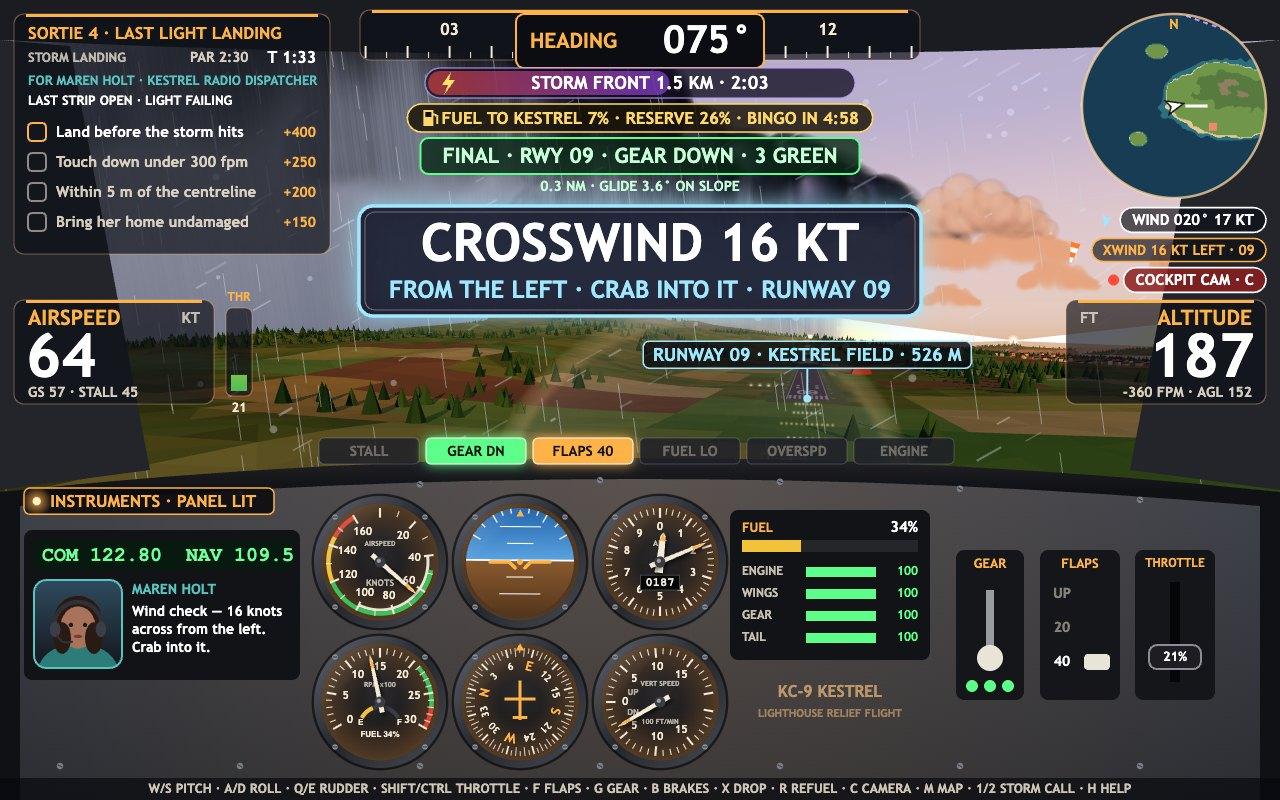
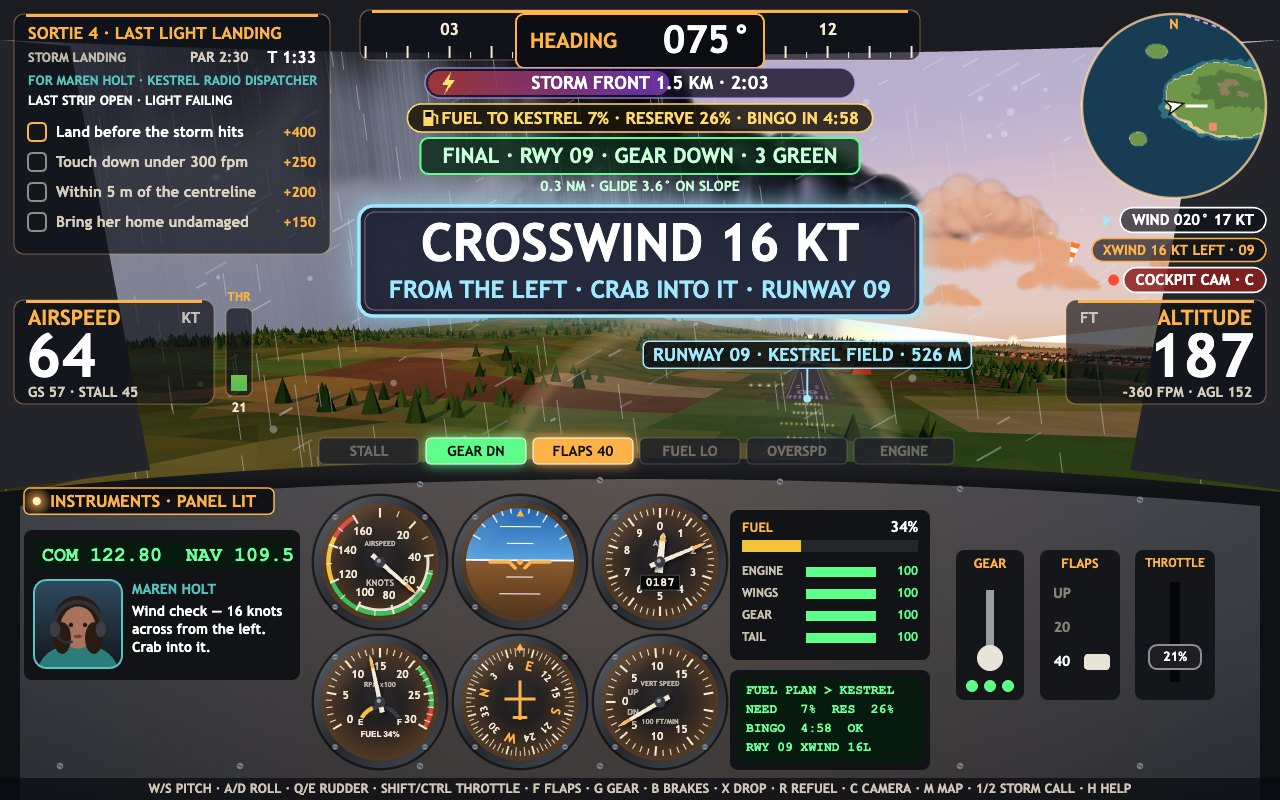
Cockpit flight computer shows the fuel plan and runway crosswind; beacon worry waits for the storm

Changed region(s): [[0.5625, 0.8125, 0.75, 0.9688]]

diff --git a/game/src/cockpit-panel.js b/game/src/cockpit-panel.js
@@ -6,6 +6,8 @@ import { drawSixPack } from './gauges.js';
 import { FONT, text, titleTab } from './hud-paint.js';
 import { SPEAKERS, drawPortrait } from './radio-portraits.js';
 import { createRandom } from './random.js';
+import { AIRSTRIPS, landingEnd, runwayThreshold } from './places.js';
+import { runwayWind } from './wind-and-gusts.js';
 
 function screw(g, x, y) {
   g.fillStyle = '#7d8089';
@@ -220,6 +222,35 @@ function rainOnGlass(g, W, top, amount, time, windSide) {
   }
 }
 
+/**
+ * The flight computer: a green LCD with the fuel planner's figures for the strip being flown
+ * to and the crosswind on its runway, as the pilot reads them from the panel.
+ */
+function flightComputer(g, x, y, w, session) {
+  const plan = session.fuelPlan;
+  g.fillStyle = '#121317';
+  g.beginPath();
+  g.roundRect(x, y, w, 100, 8);
+  g.fill();
+  g.fillStyle = '#071a0e';
+  g.fillRect(x + 8, y + 8, w - 16, 84);
+  g.font = `700 13px "Courier New", monospace`;
+  g.fillStyle = '#6dff9a';
+  g.textAlign = 'left';
+  g.textBaseline = 'middle';
+  const strip = AIRSTRIPS.find((s) => s.id === session.destination) ?? AIRSTRIPS[0];
+  const t = runwayThreshold(strip, landingEnd(strip, (session.aircraft.heading * 180) / Math.PI));
+  const wind = runwayWind(session.lastWind, t.heading);
+  const bingo = plan && plan.bingoSeconds >= 1 ? `${Math.floor(plan.bingoSeconds / 60)}:${String(Math.floor(plan.bingoSeconds % 60)).padStart(2, '0')}` : 'NOW';
+  const lines = plan ? [
+    `FUEL PLAN > ${plan.name}`,
+    `NEED ${String(Math.max(1, Math.round(plan.fuel))).padStart(3)}%  RES ${String(Math.max(0, Math.round(plan.reserve))).padStart(3)}%`,
+    `BINGO ${bingo.padStart(5)}  ${plan.status.toUpperCase()}`,
+    `RWY ${t.name} XWIND ${String(Math.round(wind.crossKt)).padStart(2)}${wind.side[0]}`,
+  ] : ['FUEL PLAN', '---'];
+  lines.forEach((line, i) => g.fillText(line, x + 16, y + 21 + i * 19));
+}
+
 /** Draw the cockpit interior and its live instruments. */
 export function drawCockpitPanel(g, W, H, session, read, rain = 0) {
   const top = H - 330;
@@ -239,6 +270,5 @@ export function drawCockpitPanel(g, W, H, session, read, rain = 0) {
   gearLever(g, W / 2 + 350, top + 150, session.aircraft);
   flapIndicator(g, W / 2 + 440, top + 150, session.aircraft);
   throttleQuadrant(g, W / 2 + 535, top + 150, session.aircraft);
-  text(g, 'KC-9 KESTREL', W / 2 + 190, top + 222, 16, 'rgba(255,196,130,0.65)', 'center', 800);
-  text(g, 'LIGHTHOUSE RELIEF FLIGHT', W / 2 + 190, top + 244, 11, 'rgba(255,196,130,0.5)', 'center', 700);
+  flightComputer(g, W / 2 + 90, top + 200, 200, session);
 }

diff --git a/game/src/missions.js b/game/src/missions.js
@@ -147,7 +147,7 @@ export function clientState(session) {
   const m = session.mission;
   if (m.id === 'rings') {
     const lit = session.rings.filter((r) => r.passed).length;
-    return { text: lit === session.rings.length ? 'ALL BEACONS LIT · THE FLEET IS SAFE' : `${lit}/${session.rings.length} BEACONS LIT · BOATS STEERING HOME`, urgent: lit < 4 };
+    return { text: lit === session.rings.length ? 'ALL BEACONS LIT · THE FLEET IS SAFE' : `${lit}/${session.rings.length} BEACONS LIT · BOATS STEERING HOME`, urgent: lit < 6 && session.storm.km < 6 };
   }
   if (m.id === 'mail') {
     const left = m.par - session.time;
